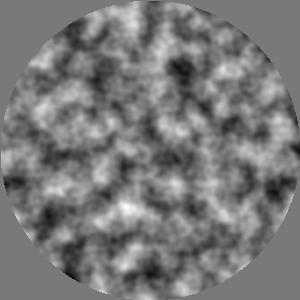
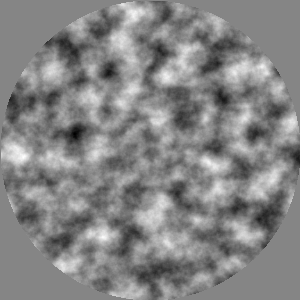
added tutorial, menus, etc

diff --git a/tutorial.py b/tutorial.py
@@ -1,0 +1,69 @@
+import pygame as pg
+from gamemath import Vector
+from gamemenu import Button
+from os import listdir
+
+TUT_PATH = "assets/tutorial/slides/"
+
+class Tutorial:
+    def __init__(self, dis, menu):
+        self.font = pg.font.Font("assets/font.ttf", 12)
+        self.menu = menu
+        self.mouse = (0,0)
+        self.click = False
+        self.dis = dis
+        self.active = True
+        self.buttons = []
+
+        self.slide = 0
+        self.slideshow = [pg.image.load(TUT_PATH + file).convert()
+                          for file in sorted(listdir(TUT_PATH))
+                          if file[-4:]=='.png']
+        self.slideshow = [pg.transform.smoothscale(img, self.dis.res.tuple) for img in self.slideshow]
+
+        self.make_btns()
+
+    def next(self):
+        self.slide = (self.slide + 1)%len(self.slideshow)
+        self.make_btns()
+        self.start()
+
+    def prev(self):
+        self.slide = (self.slide - 1)%len(self.slideshow)
+        self.make_btns()
+        self.start()
+
+    def make_btns(self):
+        self.buttons = []
+        for x, y, w, h, text, on_click in ((0, 0, 30, 14, "BACK", None),
+                                           (35, 0, 30, 14, "PREV", self.prev),
+                                           (70, 0, 30, 14, "NEXT", self.next),
+                                           (105, 0, 30, 14, f"{self.slide+1}/{len(self.slideshow)}", None)):
+            self.buttons.append(Button(self, text, on_click, (x, y), (w, h)))
+
+    def start(self):
+        while self.active:
+            self.update()
+            self.render()
+        self.menu.start()
+
+    def close(self):
+        self.active = False
+
+    def update(self):
+        self.click = False
+        for event in pg.event.get():
+            if event.type == pg.MOUSEBUTTONDOWN:
+                self.click = True
+            elif event.type == pg.QUIT:
+                self.active = False
+        self.mouse = round((Vector(pg.mouse.get_pos())-self.dis.srfpos)/self.dis.scaled_res*self.dis.res).tuple
+
+        for button in self.buttons:
+            button.update()
+
+    def render(self):
+        self.dis.srf.blit(self.slideshow[self.slide],(0,0))
+        for button in self.buttons:
+            button.render()
+        self.dis.update()

diff --git a/game.py b/game.py
@@ -11,18 +11,23 @@ from gamemenu import Menu
 import gamemusic
 
 font = pg.font.Font("assets/font.ttf", 12)
-
 ID = 0
+
+
 def nextID():
     global ID
     ID += 1
     return ID
 
+
 def screenshot(srf: pg.Surface):
-    pg.image.save(srf, f"image{nextID()}.png")
+    pg.image.save(srf, f"assets/screenshots/image{nextID()}.png")
+
 
 class Game:
-    def __init__(self, dis:Display, nstars=1000):
+    def __init__(self, dis:Display, menu: Menu = None, nstars=1000):
+        self.menu = menu
+
         self.dis = dis
         self.srf = self.dis.srf
         self.active = True
@@ -86,8 +91,8 @@ class Game:
                         self.active = False
 
                     menu = Menu({
-                        "RESUME": None,
-                        "QUIT": on_quit
+                        "CONTINUE": None,
+                        "ABANDON THE UNIVERSE": on_quit
                     }, self.dis)
                     menu.make_btns()
                     menu.start()
@@ -170,6 +175,8 @@ class Game:
         while self.active:
             self.update()
             self.render()
+        if self.menu:
+            self.menu.start()
 
 if __name__ == "__main__":
     gamemusic.play()

diff --git a/main.py b/main.py
@@ -2,13 +2,18 @@ from game import Game
 from gamemenu import Menu
 from gamedisplay import Display
 from gamemath import Vector
+
+from tutorial import Tutorial
+
 import gamemusic
 # 430-930 sat sun
 
 
-def newgame():
-    game = Game(dis)
-    game.start()
+def newgame(menu):
+    Game(dis, menu).start()
+
+def tutorial(menu):
+    Tutorial(dis, menu).start()
 
 if __name__ == "__main__":
     res = Vector(480, 360)
@@ -16,8 +21,8 @@ if __name__ == "__main__":
     dis = Display(res, winres)
 
     menu = Menu({
-        "PLAY": newgame,
-        "TUTORIAL": None,
+        "PLAY": lambda: newgame(menu),
+        "TUTORIAL": lambda: tutorial(menu),
         "QUIT": None}, dis)
     music_on, music_off = "MUSIC: ON", "MUSIC: OFF"
     def music_on_fun():

diff --git a/planet_img_gen.py b/planet_img_gen.py
@@ -23,6 +23,7 @@ def load_noise(id_):
 
 
 NOISE_DIAMETER = 300
+NOISE_LAYERS = 6
 NOISE_CACHE_SIZE = 30
 NOISE_CACHE = [load_noise(id_) for id_ in range(1, NOISE_CACHE_SIZE + 1)]
 
@@ -81,7 +82,7 @@ def gen_noise_grid(size, scale_noise=0.7):
     # Generate and layer terrain noise
     base_seed = randint(0, 1_000_000_000)
     noise_grid = np.zeros((size.x, size.y))
-    layers = 3
+    layers = NOISE_LAYERS
 
     for i in range(layers):
         scale = 0.05 * (2 ** i)  # Adjusted scale factor

diff --git a/gamemath.py b/gamemath.py
@@ -14,6 +14,14 @@ class Vector:
         else:
             self.x, self.y = x.x, x.y
 
+    @staticmethod
+    def HALF():
+        return Vector(0.5, 0.5)
+
+    @staticmethod
+    def ONE():
+        return Vector(1.0, 1.0)
+
     def __add__(self, other):
         return Vector(self.x+other.x, self.y+other.y)
 

diff --git a/gamestar.py b/gamestar.py
@@ -27,7 +27,7 @@ class Planet(Vector):
         return self.diameter/2
 
     def random(self):
-        self.x, self.y = (super().random() * tau).tuple
+        self.x, self.y = ((super().random()-Vector.HALF()) * tau).tuple
         return self
 
     def deselect(self):
